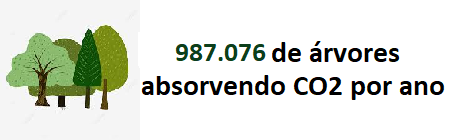
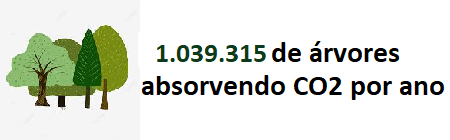
Fechamento de Maio/22

Changed region(s): [[0.3422, 0.3143, 0.5911, 0.4571]]

diff --git a/frontend/src/components/DataTable/index.tsx b/frontend/src/components/DataTable/index.tsx
@@ -9,7 +9,7 @@ const DataTable = () => {
                         <th>OT's</th>
                         <th>OS's</th>
                         <th>OD's</th>
-                        <th>Estoque em 30/04/22 (Kg)</th>
+                        <th>Estoque em 31/05/22 (Kg)</th>
                         <th>Peso Reciclado (Kg)</th>
                         
                     </tr>
@@ -23,11 +23,11 @@ const DataTable = () => {
                     </tr>
                     <tr>
                         <td>Codel</td>
-                        <td>74</td>
-                        <td>168</td>
-                        <td>432</td>
-                        <td>10.452,530</td>
-                        <td>36.963,069</td>
+                        <td>86</td>
+                        <td>184</td>
+                        <td>450</td>
+                        <td>12.536,676</td>
+                        <td>39.233,374</td>
                     </tr>
                     <tr>
                         <td>Ecobras</td>
@@ -48,34 +48,34 @@ const DataTable = () => {
                     <tr>
                         <td>EcoTI - BA</td>
                         <td>24</td>
-                        <td>45</td>
-                        <td>32</td>
-                        <td>14.852,882</td>
-                        <td>7.100,271</td>
+                        <td>49</td>
+                        <td>39</td>
+                        <td>16.954,135</td>
+                        <td>8.260,090</td>
                     </tr>
                     <tr>
                         <td>EcoTI - SE</td>
                         <td>14</td>
                         <td>158</td>
                         <td>52</td>
-                        <td>97.937,123</td>
+                        <td>135.928,093</td>
                         <td>25.500,530</td>
                     </tr>
                     <tr>
                         <td>Natal</td>
-                        <td>233</td>
-                        <td>1.761</td>
-                        <td>304</td>
-                        <td>103.838,907</td>
-                        <td>932.841,977</td>
+                        <td>259</td>
+                        <td>1.929</td>
+                        <td>315</td>
+                        <td>97.589,190</td>
+                        <td>971.406,952</td>
                     </tr>
                     <tr>
                         <td>Reciclo</td>
-                        <td>517</td>
-                        <td>1.313</td>
-                        <td>911</td>
-                        <td>74.979,732</td>
-                        <td>1.314.419,309</td>
+                        <td>567</td>
+                        <td>1.387</td>
+                        <td>982</td>
+                        <td>59.758,842</td>
+                        <td>1.385.298,239</td>
                     </tr>
                     <tr>
                         <td>Reeecicle</td>
@@ -87,10 +87,10 @@ const DataTable = () => {
                     </tr>
                     <tr>
                         <td>Sete Ambiental</td>
-                        <td>764</td>
-                        <td>545</td>
+                        <td>843</td>
+                        <td>620</td>
                         <td>17</td>
-                        <td>25.491,419</td>
+                        <td>35.630,687</td>
                         <td>609,600</td>
                     </tr>
                     <tr>
@@ -103,10 +103,10 @@ const DataTable = () => {
                     </tr>
                     <tr>
                         <td>Zero Impacto</td>
-                        <td>73</td>
-                        <td>379</td>
+                        <td>85</td>
+                        <td>433</td>
                         <td>32</td>
-                        <td>39.125,605</td>
+                        <td>36.095,259</td>
                         <td>29.497,159</td>
                     </tr>
                     <tr>
@@ -119,11 +119,11 @@ const DataTable = () => {
                     </tr>
                     <tr>
                         <th>T O T A I S</th>
-                        <th>1.785</th>
-                        <th>4.616</th>
-                        <th>1.872</th>
-                        <th>490.593,545</th>
-                        <th>2.382.327,515</th>
+                        <th>1.964</th>
+                        <th>4.997</th>
+                        <th>1.979</th>
+                        <th>528.557,956</th>
+                        <th>2.495.201,544</th>
                     </tr>
                 </thead>
                 <tbody>

diff --git a/frontend/src/components/BarRecbMensal/index.tsx b/frontend/src/components/BarRecbMensal/index.tsx
@@ -16,12 +16,12 @@ const BarRecbMensal = () => {
     
     const mockData = {
         labels: {
-            categories: ['Jan', 'Fev', 'Mar', 'Abr', 'Mai', 'Jun', 'Jul', 'Ago', 'Set', 'Out', 'Nov', 'Dez', 'Jan/22', 'Fev', 'Mar', 'Abr']
+            categories: ['Jan', 'Fev', 'Mar', 'Abr', 'Mai', 'Jun', 'Jul', 'Ago', 'Set', 'Out', 'Nov', 'Dez', 'Jan/22', 'Fev', 'Mar', 'Abr', 'Mai']
         },
         series: [
             {
                 name: "Kg Recebidos",
-                data: [108468, 113628,	123526, 138370, 186067, 187866, 219556, 162479, 257534, 204908, 255846, 235632, 170503, 177506, 183005, 129727 ]                  
+                data: [108468, 113628,	123526, 138370, 186067, 187866, 219556, 162479, 257534, 204908, 255846, 235632, 170503, 177506, 183005, 129727, 151077]                  
             }
         ]
     };

diff --git a/frontend/src/components/BarReciclMensal/index.tsx b/frontend/src/components/BarReciclMensal/index.tsx
@@ -16,12 +16,12 @@ const BarReciclMensal = () => {
     
     const mockData = {
         labels: {
-            categories: ['Jan', 'Fev', 'Mar', 'Abr', 'Mai', 'Jun', 'Jul', 'Ago', 'Set', 'Out', 'Nov', 'Dez', 'Jan/22', 'Fev', 'Mar', 'Abr']
+            categories: ['Jan', 'Fev', 'Mar', 'Abr', 'Mai', 'Jun', 'Jul', 'Ago', 'Set', 'Out', 'Nov', 'Dez', 'Jan/22', 'Fev', 'Mar', 'Abr', 'Mai']
         },
         series: [
             {
                 name: "Kg Reciclados",
-                data: [26339, 90712, 93643, 142116, 166545, 219788, 189244, 197028, 209382, 176002, 176982, 162728, 128780, 136990, 181336, 84713]                  
+                data: [26339, 90712, 93643, 142116, 166545, 219788, 189244, 197028, 209382, 176002, 176982, 162728, 128780, 136990, 181336, 84713, 112874]                  
             }
         ]
     };

diff --git a/frontend/src/components/DonutChart/index.tsx b/frontend/src/components/DonutChart/index.tsx
@@ -3,7 +3,7 @@ import Chart from 'react-apexcharts';
 const DonutChart = () => {
 
     const mockData = {
-        series: [0, 36.963, 35.211, 0, 7.100, 25.501, 932.842, 1314.419, 0.184, 0.610, 0, 29.497],
+        series: [0, 39.233, 35.211, 0, 8.260, 25.501, 971.407, 1385.298, 0.184, 0.610, 0, 29.497],
         labels: ['BDPWaste', 'Codel', 'Ecobras', 'Ecodescarte', 'EcoTI - BA', 'EcoTI - SE', 'Natal', 'Reciclo', 'Reeecicle', 'Sete Ambiental', 'WEEE', 'Zero Impacto']
     }
     

diff --git a/frontend/src/components/BarChart/index.tsx b/frontend/src/components/BarChart/index.tsx
@@ -17,7 +17,7 @@ const BarChart = () => {
         series: [
             {
                 name: "Ton Reciclados",
-                data: [0, 36.963, 35.211, 0, 7.100, 25.501, 932.842, 1314.419, 0.184, 0.610, 0, 29.497]                  
+                data: [0, 39.233, 35.211, 0, 8.260, 25.501, 971.407, 1385.298, 0.184, 0.610, 0, 29.497]                  
             }
         ]
     };

diff --git a/frontend/src/components/BarOSs/index.tsx b/frontend/src/components/BarOSs/index.tsx
@@ -22,7 +22,7 @@ const BarOSs = () => {
         series: [
             {
                 name: "OS's Abertas",
-                data: [6, 168, 13, 6, 45, 158, 1761, 1323, 206, 545, 12, 379]                  
+                data: [6, 184, 13, 6, 49, 158, 1929, 1387, 206, 620, 12, 433]                  
             }
         ]
     };

diff --git a/frontend/src/components/BarODs/index.tsx b/frontend/src/components/BarODs/index.tsx
@@ -22,7 +22,7 @@ const BarODs = () => {
         series: [
             {
                 name: "OD's Abertas",
-                data: [0, 432, 20, 0, 32, 52, 304, 911, 1, 17, 71, 32]                  
+                data: [0, 450, 20, 0, 39, 52, 315, 982, 1, 17, 71, 32]                  
             }
         ]
     };

diff --git a/frontend/src/components/BarOTs/index.tsx b/frontend/src/components/BarOTs/index.tsx
@@ -22,7 +22,7 @@ const BarOTs = () => {
         series: [
             {
                 name: "OT's Abertas",
-                data: [0, 74, 0, 37, 24, 14, 233, 517, 49, 764, 0, 73]                  
+                data: [0, 86, 0, 37, 24, 14, 259, 567, 49, 843, 0, 86]                  
             }
         ]
     };
